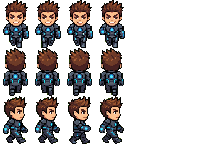
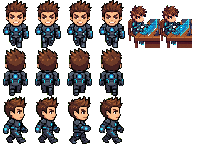
feat: add work frames for all 6 agents + enable typing animation in busy state

Changed region(s): [[0.5625, 0.0278, 0.875, 0.3333]]

diff --git a/public/assets/pixel-office/engine.js b/public/assets/pixel-office/engine.js
@@ -267,9 +267,9 @@
     }
 
     if (this.status === 'busy' && this.col === this.hc && this.row === this.hr) {
-      // no typing frames in new sprite sheet — idle at frame 0
-      this.dir = this.homeDir;
-      this.frame = 0;
+      // typing/working animation: frames 4-5 in row 0 (facing down)
+      this.dir = DIR_DOWN;
+      this.frame = 4 + (Math.floor(this.animTick / 15) % 2);
       return;
     }
 
